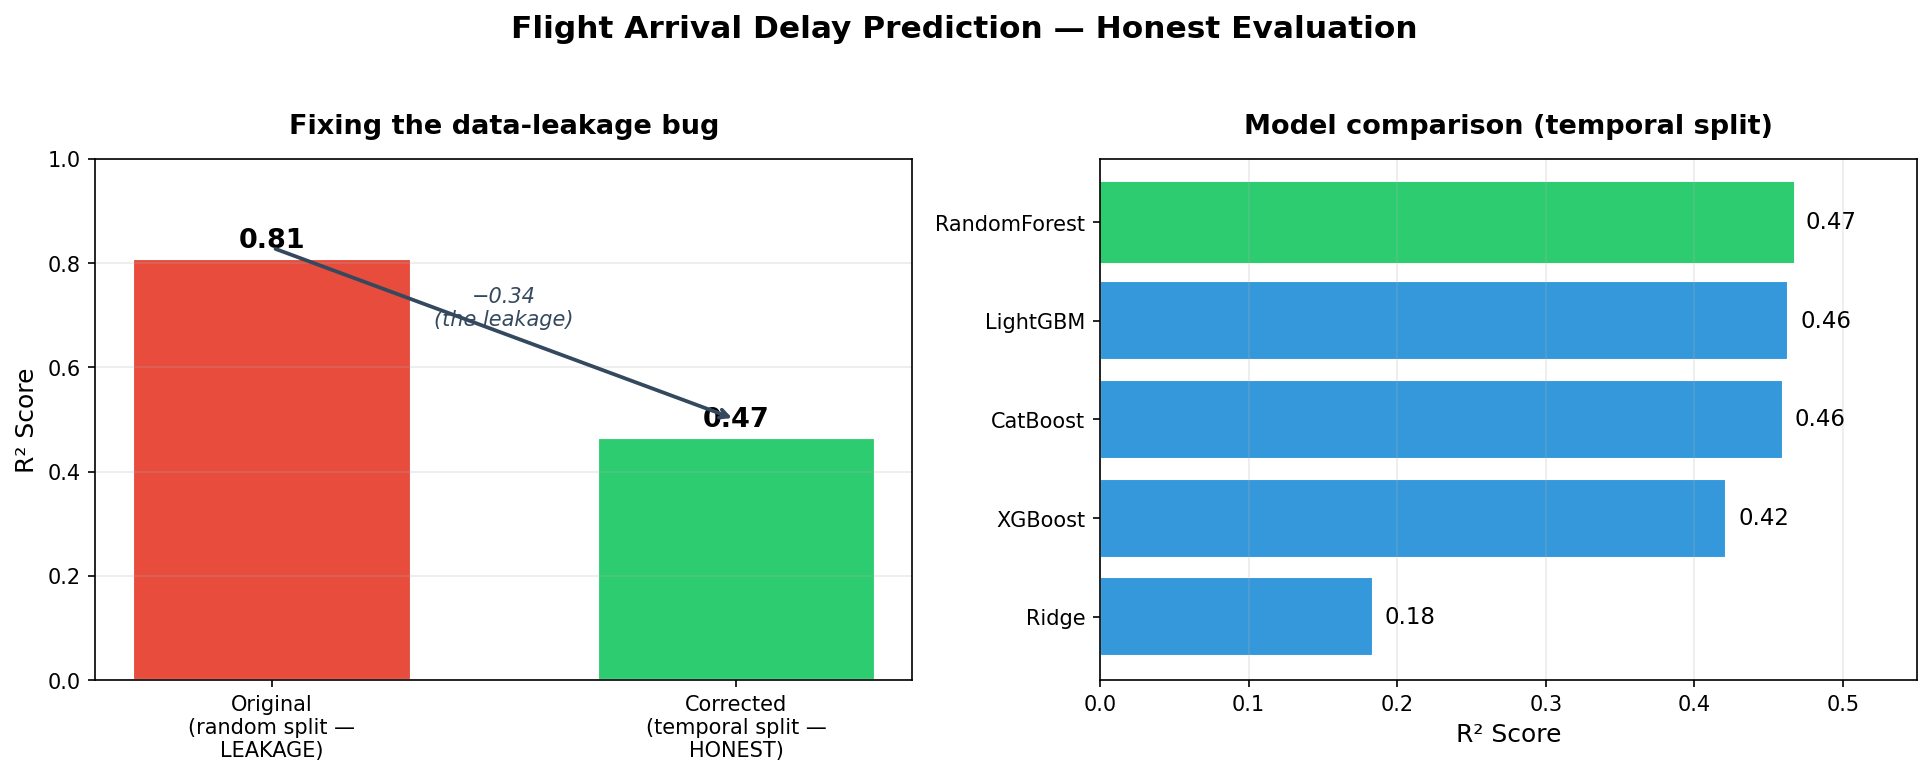
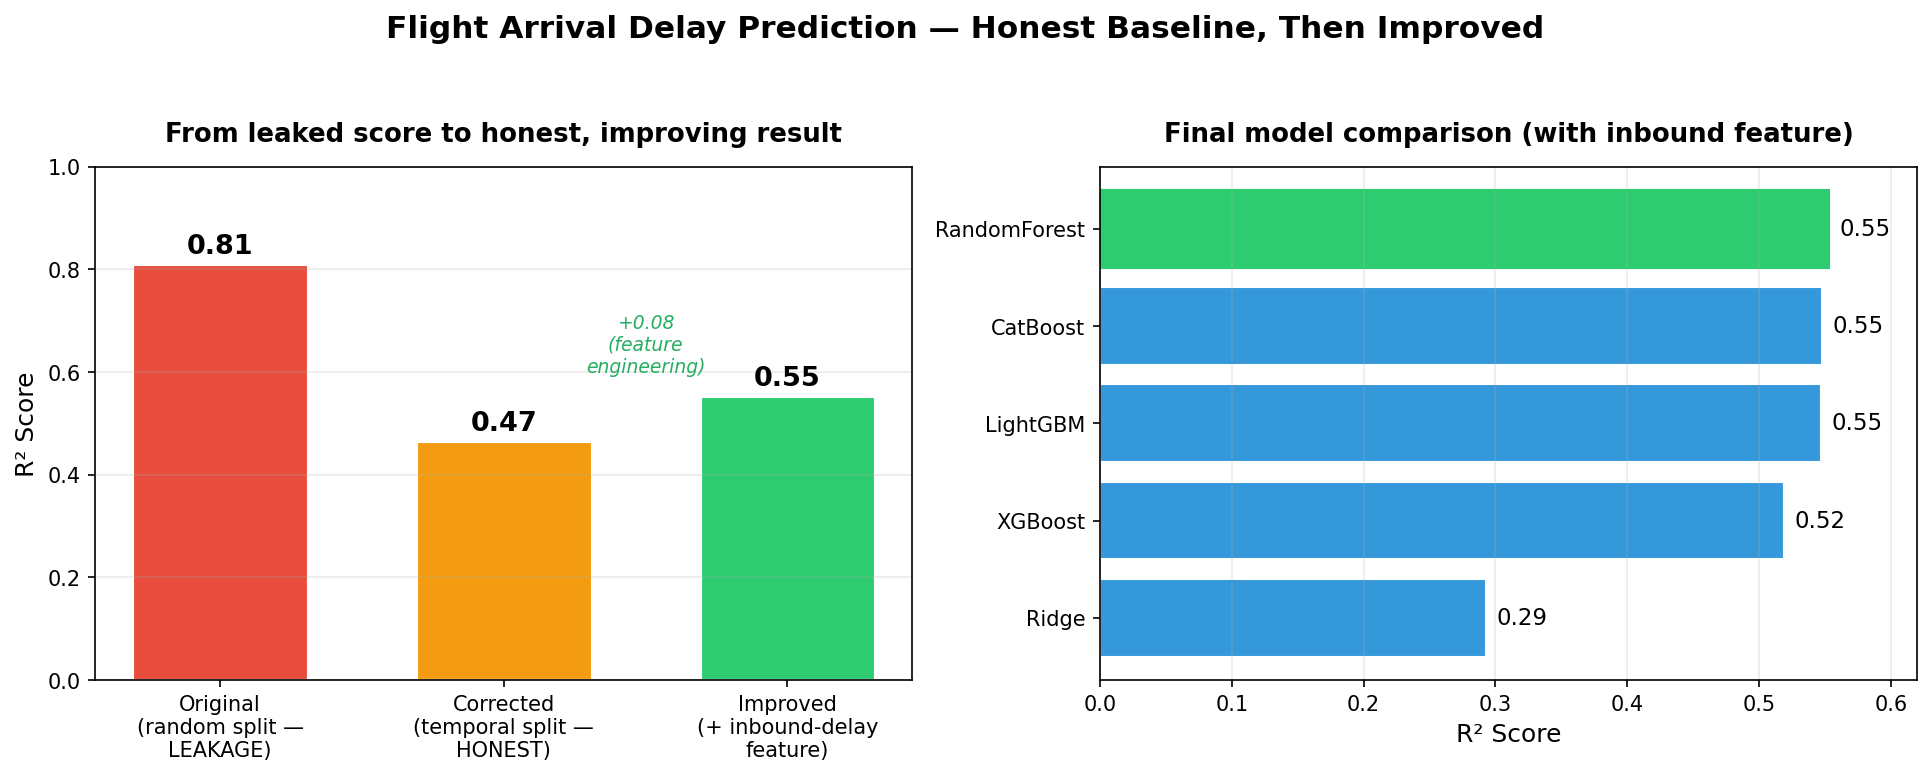
Add inbound-delay feature and update README: R2 0.47 -> 0.55

diff --git a/README.md b/README.md
@@ -1,75 +1,114 @@
 # Flight Arrival Delay Prediction
 
-Predict how many minutes late a flight will **arrive**, using only information
-available **before** it departs. Refactored from a single Colab notebook into a
-config-driven, testable, reusable pipeline.
+Predict how many minutes late an American Airlines flight out of DFW will
+**arrive**, using only information available **before it departs**.
+
+![Results summary](artifacts/reports/results_summary.png)
+
+> **The story of this project, in one line:** the original notebook reported
+> **R² = 0.81** — but that was a data-leakage illusion. After fixing it, the honest
+> baseline was **R² = 0.47**; a domain-driven feature then lifted it to **R² = 0.55**.
+> Rigor first, then real improvement.
 
 ---
 
-## Why this structure
+## Results
 
-| Requirement | How it's met |
-|---|---|
-| **Parameterisation** | Every path, hyper-parameter, and modelling choice lives in `config/config.yaml`. Source code reads config — it never hardcodes. |
-| **Reusability** | Each stage (`load`, `clean`, `split`, `features`, `train`) is a pure module you can import and reuse independently. |
-| **Scalability** | Weather is cached to parquet; airports come from a CSV lookup, not a hardcoded dict — add destinations without touching code. |
-| **Correctness** | Temporal split + train-only imputation + target sanity-clipping fix the leakage bugs from the original notebook. |
-| **Testability** | `tests/` covers the exact failure modes the notebook had. |
-| **Reproducibility** | Single seed in config; artifacts (model, preprocessor, leaderboard) persisted to `artifacts/`. |
+Full dataset, temporal 80/20 split (train on the past, predict the future):
+
+| Model | R² | RMSE (min) | MAE (min) |
+|---|---|---|---|
+| **RandomForest** (champion) | **0.55** | 56.3 | 33.1 |
+| CatBoost | 0.55 | 56.7 | 33.2 |
+| LightGBM | 0.55 | 56.7 | 33.2 |
+| XGBoost | 0.52 | 58.4 | 33.9 |
+| Ridge (linear baseline) | 0.29 | 70.9 | 44.3 |
+
+The champion's predictions are off by ~33 minutes on average (MAE). The four tree
+models agreeing closely confirms the signal is real, not a fluke.
 
 ---
 
-## Layout
+## Two findings that make this project
+
+### 1. A data-leakage bug was inflating the original score by 0.34
+
+The original approach split the data **randomly**. For a problem where you predict
+*before* a flight departs, that lets the model train on future flights and test on
+past ones — leakage. Switching to a **temporal split** dropped the score from a
+fake 0.81 to an honest **0.47**. Same models, same data — the 0.34 gap *was* the bug.
+
+### 2. A delay-propagation feature then lifted it to 0.55
+
+The strongest real-world predictor of a departure delay is the state of the
+*previous* flight flown by the same physical aircraft — if the plane arrives late,
+the next leg leaves late. Adding an **inbound-aircraft-delay** feature raised R² from
+0.47 to **0.55** and cut average error by **5.5 minutes**.
+
+Crucially, this feature respects the same anti-leakage discipline: the inbound leg's
+delay is only used when that flight had **actually landed before the current flight's
+scheduled departure** — knowable at prediction time. That condition held for **47.7%**
+of flights; for the rest, the feature is correctly marked unknown rather than leaked.
+
+---
+
+## What the model uses
+
+Pre-departure-safe features only: scheduled times (exploded into hour, day, month,
+day-of-week, season), destination airport, aircraft fleet type, scheduled duration,
+hourly destination weather, and the leakage-guarded inbound-aircraft delay.
+
+Columns recorded *after* the flight (actual times, delay reason codes, status flags)
+are explicitly excluded.
+
+---
+
+## Project structure
 
 ```
 flight-delay-prediction/
-├── config/
-│   ├── config.yaml         # all parameters
-│   └── airports.csv        # IATA -> lat/lon lookup
-├── data/
-│   ├── raw/                # input CSV (git-ignored)
-│   ├── interim/            # weather cache
-│   └── processed/          # engineered dataset
+├── config/config.yaml      # every parameter, path, and model lives here
 ├── src/
-│   ├── config.py           # config loader
-│   ├── data/               # load, clean, split
-│   ├── features/           # temporal, weather, preprocessing
-│   ├── models/             # registry, train/evaluate
-│   └── pipeline.py         # wires the stages together
-├── scripts/run_pipeline.py # CLI entry point
-├── tests/                  # pytest
-└── artifacts/              # saved models + reports
+│   ├── data/               # load, clean, temporal split
+│   ├── features/           # time, weather, delay-propagation, leakage-safe preprocessing
+│   └── models/             # config-driven model registry, train/evaluate
+├── scripts/run_pipeline.py # one-command entry point
+├── tests/                  # unit tests for the leakage-sensitive steps
+└── artifacts/              # saved model + leaderboard + chart (generated)
 ```
+
+Config-driven: behaviour changes by editing `config.yaml`, never by editing source.
+Add a model by pasting a YAML block; toggle the propagation feature with one flag.
 
 ---
 
 ## Run it
 
 ```bash
+python3 -m venv .venv && source .venv/bin/activate
 pip install -r requirements.txt
-# place the raw file at data/raw/flights.csv (or edit config)
+# place the raw flight CSV at data/raw/flights.csv
 python -m scripts.run_pipeline
 pytest -q
 ```
 
-Swap any behaviour without editing code — e.g. run a random-split baseline:
-
-```bash
-cp config/config.yaml config/random_baseline.yaml
-# set split.strategy: random  in that file
-python -m scripts.run_pipeline --config config/random_baseline.yaml
-```
+Results write to `artifacts/reports/`; the champion model to `artifacts/models/`.
 
 ---
 
-## Known limitations (inherited from the source, documented not hidden)
+## Known limitations (documented, not hidden)
 
-1. **Weather is observed, not forecast.** The archive API returns what actually
-   happened at arrival hour; a production model needs the forecast known at
-   scheduling time. Swap the endpoint in config when ready.
-2. **`MINS_TO_SCHD_DEP_QTY` dominates feature importance.** Confirm it is truly
-   knowable pre-departure before trusting it.
-3. **Target distribution looked implausible** (mean ~58 min) in the source data.
-   The pipeline now drops out-of-range delays, but the upstream timezone/parse
-   logic should be verified against known flights.
-```
+1. **Weather is observed, not forecast** — a production version needs the forecast
+   available at scheduling time.
+2. **Destination limited to 10 airports** by the weather-coordinate lookup, which
+   drops a large share of rows. Expanding this is the next scaling step.
+3. **Target quality** — the raw delay distribution has an implausibly high mean; the
+   pipeline drops out-of-range values, but upstream timestamp logic should be verified.
+
+---
+
+## Next steps
+
+- Serve the model behind a small API (FastAPI) for real-time predictions.
+- Reframe as classification ("will this flight be >15 min late?") for a more
+  operationally useful metric.